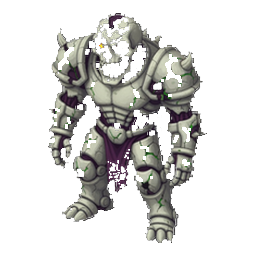
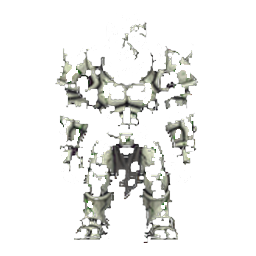
fix: colossus SE/SW copies the front tank (v0.6.24)

diff --git a/sw.js b/sw.js
@@ -6,7 +6,7 @@
 // player-facing string) — only CACHE_VERSION needs bumping to bust stale caches; renaming
 // the prefix would work too, but bumping the version is the documented mechanism and is
 // sufficient on its own to force every returning tester to refetch the shell.
-const CACHE_VERSION = 'v45';  // v0.6.23 — runner/colossus frame repairs + tank side identity
+const CACHE_VERSION = 'v46';  // v0.6.24 — colossus SE/SW use the front tank
 const CACHE_NAME = `hiveswarm-game-shell-${CACHE_VERSION}`;
 const PRECACHE_URLS = ['./', './index.html', './manifest.webmanifest'];
 

diff --git a/index.html b/index.html
@@ -48,7 +48,7 @@
 <script>
 'use strict';
 // S.3 greybox core: world-space simulation. Deliberately contains no lanes, horizon, road, or gates.
-const GAME_VERSION='0.6.23';
+const GAME_VERSION='0.6.24';
 // S1 (Eric, playtest): HUD sat under the phone's status-bar icons (clock/battery). Read the
 // safe-area inset via a probe element (env() only resolves against a real CSS property, not a
 // custom property read-back) with a sensible fallback for devices/browsers without the env().

diff --git a/_game_extract.js b/_game_extract.js
@@ -1,7 +1,7 @@
 
 'use strict';
 // S.3 greybox core: world-space simulation. Deliberately contains no lanes, horizon, road, or gates.
-const GAME_VERSION='0.6.23';
+const GAME_VERSION='0.6.24';
 // S1 (Eric, playtest): HUD sat under the phone's status-bar icons (clock/battery). Read the
 // safe-area inset via a probe element (env() only resolves against a real CSS property, not a
 // custom property read-back) with a sensible fallback for devices/browsers without the env().

diff --git a/qa/_live_gfx_audit.py b/qa/_live_gfx_audit.py
@@ -1,0 +1,80 @@
+"""Line up every Swarm enemy around the player and screenshot live art."""
+from pathlib import Path
+
+from playwright.sync_api import sync_playwright
+
+OUT = Path(r"D:\Dev\HiveSwarm\qa\evidence\live_gfx")
+OUT.mkdir(parents=True, exist_ok=True)
+BRAVE = r"C:\Program Files\BraveSoftware\Brave-Browser\Application\brave.exe"
+
+PLACE = """() => {
+  paused = true;
+  enemies.length = 0;
+  const roster = (ENEMIES || []).filter(e => e && e.id && e.id.indexOf('enemy.') === 0);
+  const names = [];
+  const n = roster.length;
+  const R = 210;
+  for (let i = 0; i < n; i++) {
+    const type = roster[i];
+    const a = -Math.PI/2 + (i / n) * Math.PI * 2;
+    const er = (type.r || 16) * (type.scale || 1);
+    enemies.push({
+      x: player.x + Math.cos(a) * R,
+      y: player.y + Math.sin(a) * R,
+      r: er, hp: 9999, maxHp: 9999, speed: 0, damage: 0,
+      type, color: type.color, hit: 0, elite: null, t: 0.4, angle: a + Math.PI
+    });
+    names.push(type.name);
+  }
+  WORLD.maxEnemies = enemies.length;
+  return {n, names, version: GAME_VERSION, px: player.x, py: player.y};
+}"""
+
+
+def main() -> None:
+    with sync_playwright() as pw:
+        browser = pw.chromium.launch(headless=True, executable_path=BRAVE)
+        page = browser.new_page(viewport={"width": 540, "height": 960})
+        errs = []
+        page.on("pageerror", lambda e: errs.append(str(e)))
+        page.goto("http://127.0.0.1:8795/index.html", wait_until="load", timeout=30000)
+        page.wait_for_timeout(800)
+        page.screenshot(path=str(OUT / "00_title.png"))
+        page.keyboard.press("Enter")
+        page.wait_for_timeout(1200)
+        info = page.evaluate(PLACE)
+        print("placed", info)
+        page.wait_for_timeout(200)
+        page.screenshot(path=str(OUT / "01_all_kinds.png"))
+        # runner + colossus close-ups, 3 facings
+        page.evaluate(
+            """() => {
+              enemies.length = 0;
+              const runner = ENEMIES.find(e => e.id === 'enemy.runner');
+              const colo = ENEMIES.find(e => e.id === 'enemy.colossus');
+              const specs = [
+                {type: runner, x: player.x - 140, y: player.y - 40, angle: Math.PI/2},
+                {type: runner, x: player.x, y: player.y - 40, angle: Math.PI*0.75},
+                {type: runner, x: player.x + 140, y: player.y - 40, angle: Math.PI*0.25},
+                {type: colo, x: player.x - 150, y: player.y + 160, angle: 0},
+                {type: colo, x: player.x, y: player.y + 160, angle: Math.PI/2},
+                {type: colo, x: player.x + 150, y: player.y + 160, angle: Math.PI},
+              ];
+              for (const s of specs) {
+                enemies.push({
+                  x:s.x,y:s.y,r:(s.type.r||16)*(s.type.scale||1),
+                  hp:9999,maxHp:9999,speed:0,damage:0,type:s.type,color:s.type.color,
+                  hit:0,elite:null,t:0.5,angle:s.angle,vx:Math.cos(s.angle)*40,vy:Math.sin(s.angle)*40
+                });
+              }
+              WORLD.maxEnemies = enemies.length;
+            }"""
+        )
+        page.wait_for_timeout(250)
+        page.screenshot(path=str(OUT / "02_runner_colossus.png"))
+        print("errors", errs)
+        browser.close()
+
+
+if __name__ == "__main__":
+    main()

diff --git a/HiveSwarm.md b/HiveSwarm.md
@@ -3,7 +3,7 @@ type: game-documentation
 title: HiVE SWARM
 description: Canonical source of truth for HiVE SWARM — status, play-feel, developer rules, AI rules, and roadmap.
 status: playable-in-development
-version: 0.6.23
+version: 0.6.24
 updated: 2026-08-22
 tags: [game, hivemind, webgame, documentation]
 ---
@@ -15,14 +15,14 @@ Boards, GDD, README, empire memory, and `My Apps` copies are pointers or history
 
 | | |
 |---|---|
-| **Version** | `0.6.23` · `sw.js` `CACHE_VERSION = v45` |
+| **Version** | `0.6.24` · `sw.js` `CACHE_VERSION = v46` |
 | **Master path** | `D:\Dev\HiveSwarm` — edit here only |
 | **Game file** | `index.html` — one file: engine, FORGE, HUD, run loop |
 | **Launcher** | `Launch HiVE Swarm.bat` → http://127.0.0.1:8795/index.html |
 | **Desktop play link** | `Play HiVE Swarm.lnk` (Drive id `1mwDl1OW6xcSpdh9hjFhFsNdWhY_Wet6_`) always launches that bat — never the old `standalone\PLAY.bat`. |
 | **GitHub** | https://github.com/MiSTRFiNGA/HiveSwarm (public, Pages on `master`) |
 | **Pages** | https://mistrfinga.github.io/HiveSwarm/ |
-| **APK (one only)** | `C:\Users\MiSTRFiNGA\Desktop\My Games\_APKs\HiveSwarm-0.6.23.apk`. Older Swarm APKs are in `_APKs\Archive`. |
+| **APK (one only)** | `C:\Users\MiSTRFiNGA\Desktop\My Games\_APKs\HiveSwarm-0.6.24.apk`. Older Swarm APKs are in `_APKs\Archive`. |
 | **Always-latest APK** | Not used for 0.6.16 — owner asked for numbered APKs only (`HiveSwarm-0.6.16.apk`). |
 | **Genre** | 360° top-down survivors-like / bullet-heaven. Reference feel: `Zombie Waves.apk` (study only — never its art, audio, or code). |
 | **Not** | HiVE WAR (`D:\Dev\HiveWar`) is a **lane / corridor shooter**. "Like HiVE WAR" means borrow a *behaviour*, not edit that repo. |
@@ -240,6 +240,10 @@ Do these in order. Do not add weapons or stages in front of P0.
 ---
 
 ## 8. Change record (keep — measured)
+
+### 2026-08-22 — Grok · v0.6.24 · live-play colossus SE/SW
+
+SE/SW walk/idle/still now copy the front tank so the skull-and-saw body does not appear on diagonals. E/W stay the tank profile.
 
 ### 2026-08-22 — Grok · v0.6.23 · leftover sprite frames
 
